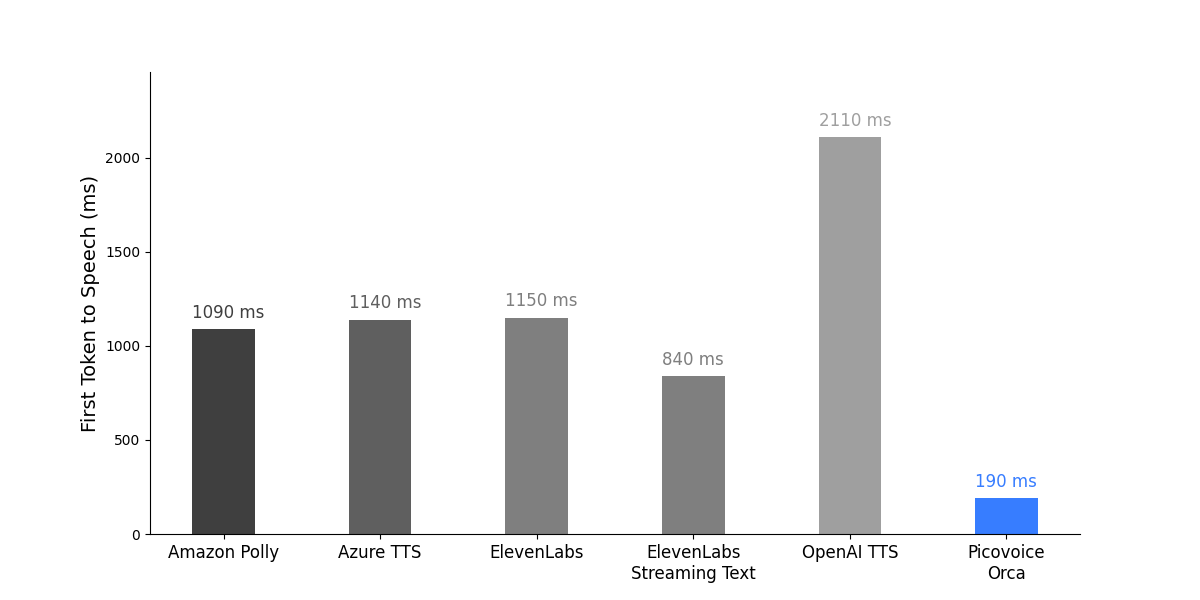
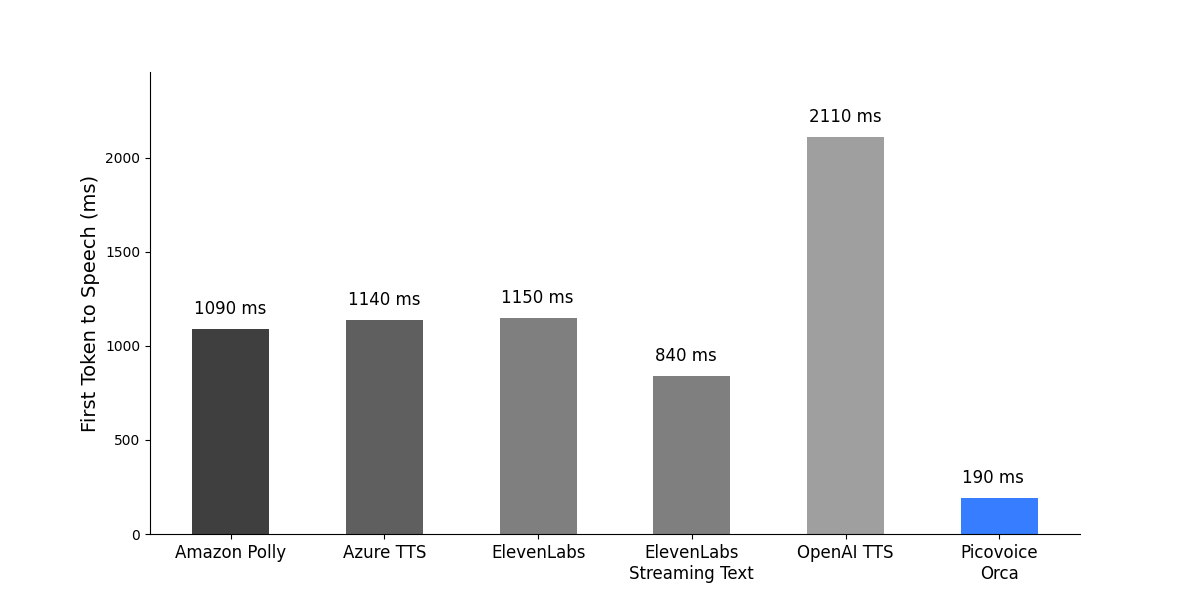
updates

diff --git a/plot_results.py b/plot_results.py
@@ -107,7 +107,7 @@ def _plot(
         ax.bar(
             range(num_results),
             rounded_results,
-            0.4,
+            0.5,
             color=colors,
             label="Time to First Token (using OpenAI's gpt-3.5-turbo)")
     else:
@@ -121,7 +121,7 @@ def _plot(
     ax.bar(
         range(num_results),
         rounded_results,
-        0.4,
+        0.5,
         color=colors,
         bottom=bottoms,
         alpha=0.65 if not only_tts and not no_breakdown else 1.0,
@@ -135,12 +135,11 @@ def _plot(
         total_delays.append(rounded_result)
         std_total_delay = std.voice_assistant_response_time if not only_tts else std.first_token_to_speech
         total_delays_std.append(round_result(std_total_delay))
-        color = ENGINE_COLORS[synthesizer]
-        x_offset = 0.02 if show_error_bars else -0.2
+        x_offset = 0.02 if show_error_bars else -0.24
         ax.text(
-            i + x_offset, rounded_result + 60,
+            i + x_offset, rounded_result + 80,
             f'{rounded_result:.0f} ms',
-            color=color,
+            color=BLACK,
             fontsize=12)
 
     if show_error_bars:
@@ -168,7 +167,7 @@ def _plot(
     plt.ylabel(f"{metric} (ms)", fontsize=14)
 
     if (not only_tts or show_error_bars) and not no_breakdown:
-        ax.legend(loc="upper left", reverse=False, fontsize=14)
+        ax.legend(loc="upper left", reverse=False, fontsize=14, framealpha=0)
 
     if show_error_bars:
         output_path = output_path.replace(".png", "_error_bars.png")

diff --git a/benchmark.py b/benchmark.py
@@ -345,7 +345,7 @@ if __name__ == "__main__":
         help="Open AI API key. Needed when using openai models")
 
     parser.add_argument(
-        "--tts",
+        "--engine",
         dest="synthesizer",
         default=Synthesizers.PICOVOICE_ORCA.value,
         choices=[s.value for s in Synthesizers],

diff --git a/README.md b/README.md
@@ -16,11 +16,12 @@ engines, when used in conjunction with large language models (LLMs) for voice as
 
 ## Overview
 
-This benchmark simulates a voice assistant by using an LLM to generate responses to user queries.
+This benchmark simulates user - voice-assistant interactions, by generating LLM responses to user questions
+and synthesizing the response to speech as soon as possible.
 We sample user queries from a public dataset and feed them to ChatGPT (`gpt-3.5-turbo`)
 using [OpenAI Chat Completion API](https://platform.openai.com/docs/guides/text-generation/chat-completions-api).
-ChatGPT generates responses token-by-token, which are then passed to different text-to-speech (TTS) engines
-to synthesize speech.
+ChatGPT generates responses token-by-token, which are passed to different text-to-speech (TTS) engines
+to compare their response times.
 
 ## Data
 
@@ -28,7 +29,7 @@ The public [taskmaster2](https://huggingface.co/datasets/taskmaster2) dataset co
 conversations between a user and an assistant.
 We randomly select user questions from these example conversations and use them as input to the LLM.
 The topics of the user queries are diverse and include flight booking, food ordering, hotel booking, movies and music
-recommendations, restaurant search, or sports.
+recommendations, restaurant search, and sports.
 The LLM is prompted to answer the questions like a helpful voice assistant to simulate a real-world user - AI
 agent interactions. The responses of the LLM have various lengths, from a few words to a few sentences, to cover a wide
 range of realistic responses.
@@ -46,7 +47,7 @@ We compare the response time for the following Text-to-Speech engines:
 - [Picovoice Orca Streaming Text-to-Speech](https://picovoice.ai/platform/orca/)
 
 All of the above engines support streaming audio output.
-Elevenlabs also supports streaming input using a WebSocket API. 
+Elevenlabs also supports streaming input using a WebSocket API.
 This is done by chunking the text at punctuation marks and sending pre-analyzed text chunks to the engine.
 Orca Streaming Text-to-Speech supports input text streaming without relying on special language markers.
 Orca can handle the raw LLM tokens as soon as they are produced.
@@ -55,7 +56,6 @@ Orca can handle the raw LLM tokens as soon as they are produced.
 
 Response times are typically measured with the `time-to-first-byte` metric, which is the time taken from the moment a
 request was sent until the first byte is received.
-
 In the context of assistants we care about the time it takes for the assistant to respond to the user.
 For LLM-based voice assistants we define:
 
@@ -75,8 +75,8 @@ The `FTTS` metric depends on the capabilities of the TTS engine, and whether it 
 as well as the generation speed of the LLM.
 In order to measure the `FTTS` metric, it is important to keep the LLM behavior constant across all experiments.
 
-We think that the `FTTS` metric is the best way to measure the response time of a TTS engine in the context of voice
-assistants, because it gets closest to the behavior of humans, who can start reading a response as
+We believe the `FTTS` metric is the most appropriate wasy to measure the response time of a TTS engine in the context of
+voice assistants. This is because it gets closest to the behavior of humans, who can start reading a response as
 soon as the first token appears.
 
 Note that for a complete voice assistant application we also need to consider the time it takes for the Speech-to-Text
@@ -84,7 +84,7 @@ system to send the request. Since we can use real-time Speech-to-Text engines li
 Picovoice's [Cheetah Streaming Speech-to-Text](https://picovoice.ai/platform/cheetah/),
 we can assume that the latency introduced by the Speech-to-Text is small compared to the total response time.
 Head over to our GitHub demo
-at [Orca Voice Assistant](https://github.com/Picovoice/orca/tree/main/demo/voice_assistant),
+at [LLM Voice Assistant](https://github.com/Picovoice/orca/tree/main/demo/llm_voice_assistant),
 showcasing a real voice-to-voice conversation with ChatGPT, using different TTS systems.
 
 ## Usage
@@ -107,7 +107,7 @@ Replace `${AWS_PROFILE}` with the name of AWS profile you wish to use.
 ```console
 python3 benchmark.py \
 --openai-api-key ${OPENAI_API_KEY}
---tts amazon_polly \
+--engine amazon_polly \
 --aws-profile-name ${AWS_PROFILE}
 ```
 
@@ -118,7 +118,7 @@ Replace `${AZURE_SPEECH_KEY}` and `${AZURE_SPEECH_LOCATION}` with the informatio
 ```console
 python3 benchmark.py \
 --openai-api-key ${OPENAI_API_KEY}
---tts azure_tts \
+--engine azure_tts \
 --azure-speech-key ${AZURE_SPEECH_KEY}
 --azure-speech-region ${AZURE_SPEECH_LOCATION}
 ```
@@ -132,7 +132,7 @@ Without input streaming:
 ```console
 python3 benchmark.py \
 --openai-api-key ${OPENAI_API_KEY}
---tts elevenlabs \
+--engine elevenlabs \
 --elevenlabs-api-key ${ELEVENLABS_API_KEY}
 ```
 
@@ -141,7 +141,7 @@ With input streaming:
 ```console
 python3 benchmark.py \
 --openai-api-key ${OPENAI_API_KEY}
---tts elevenlabs_websocket \
+--engine elevenlabs_websocket \
 --elevenlabs-api-key ${ELEVENLABS_API_KEY}
 ```
 
@@ -152,7 +152,7 @@ Replace `${OPENAI_API_KEY}` with your OpenAI API key.
 ```console
 python3 benchmark.py \
 --openai-api-key ${OPENAI_API_KEY}
---tts openai_tts \
+--engine openai_tts \
 ```
 
 ### Picovoice Orca Instructions
@@ -162,11 +162,14 @@ Replace `${PV_ACCESS_KEY}` with your Picovoice AccessKey.
 ```console
 python3 benchmark.py \
 --openai-api-key ${OPENAI_API_KEY}
---tts picovoice_orca \
+--engine picovoice_orca \
 --pv-access-key ${PV_ACCESS_KEY}
 ```
 
 ## Results
+
+The figures below show the response times of each engine by calculating the average over roughly 200 example
+interactions.
 
 ### First Token to Speech
 
